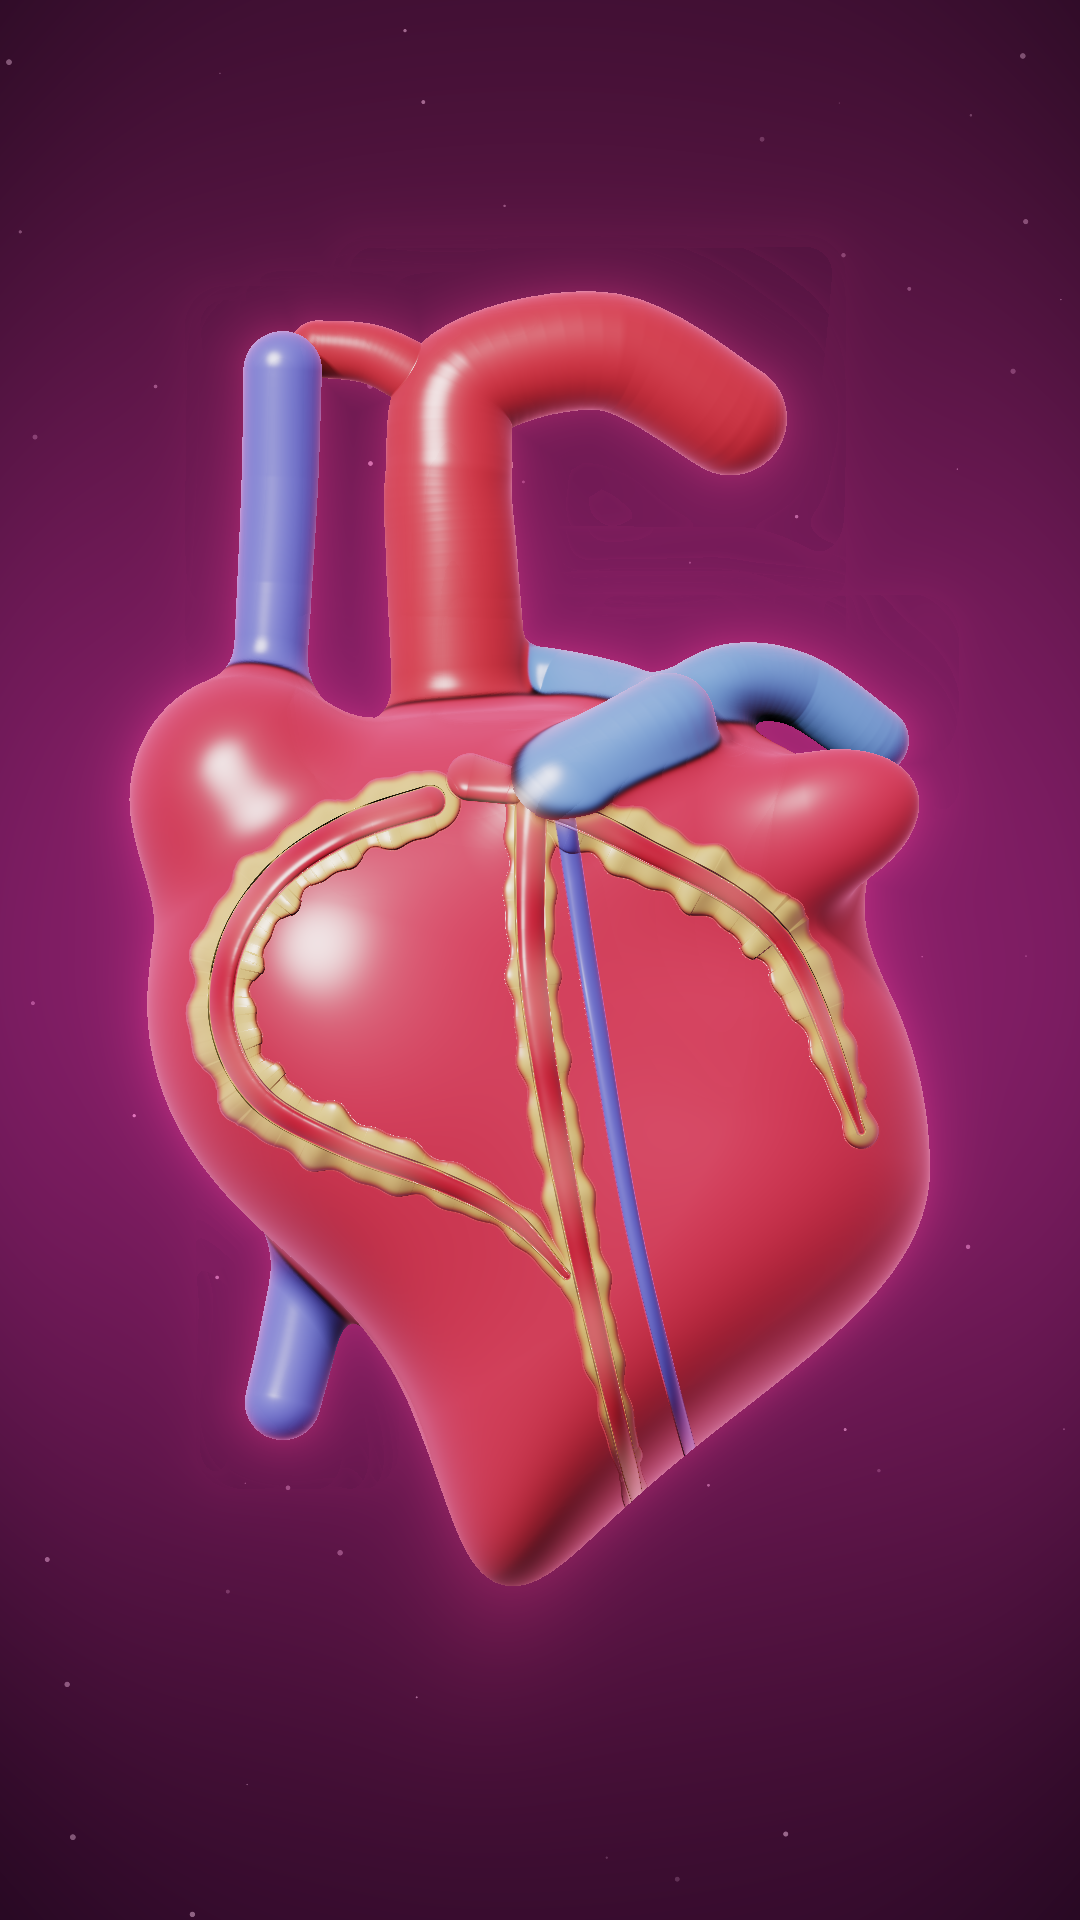
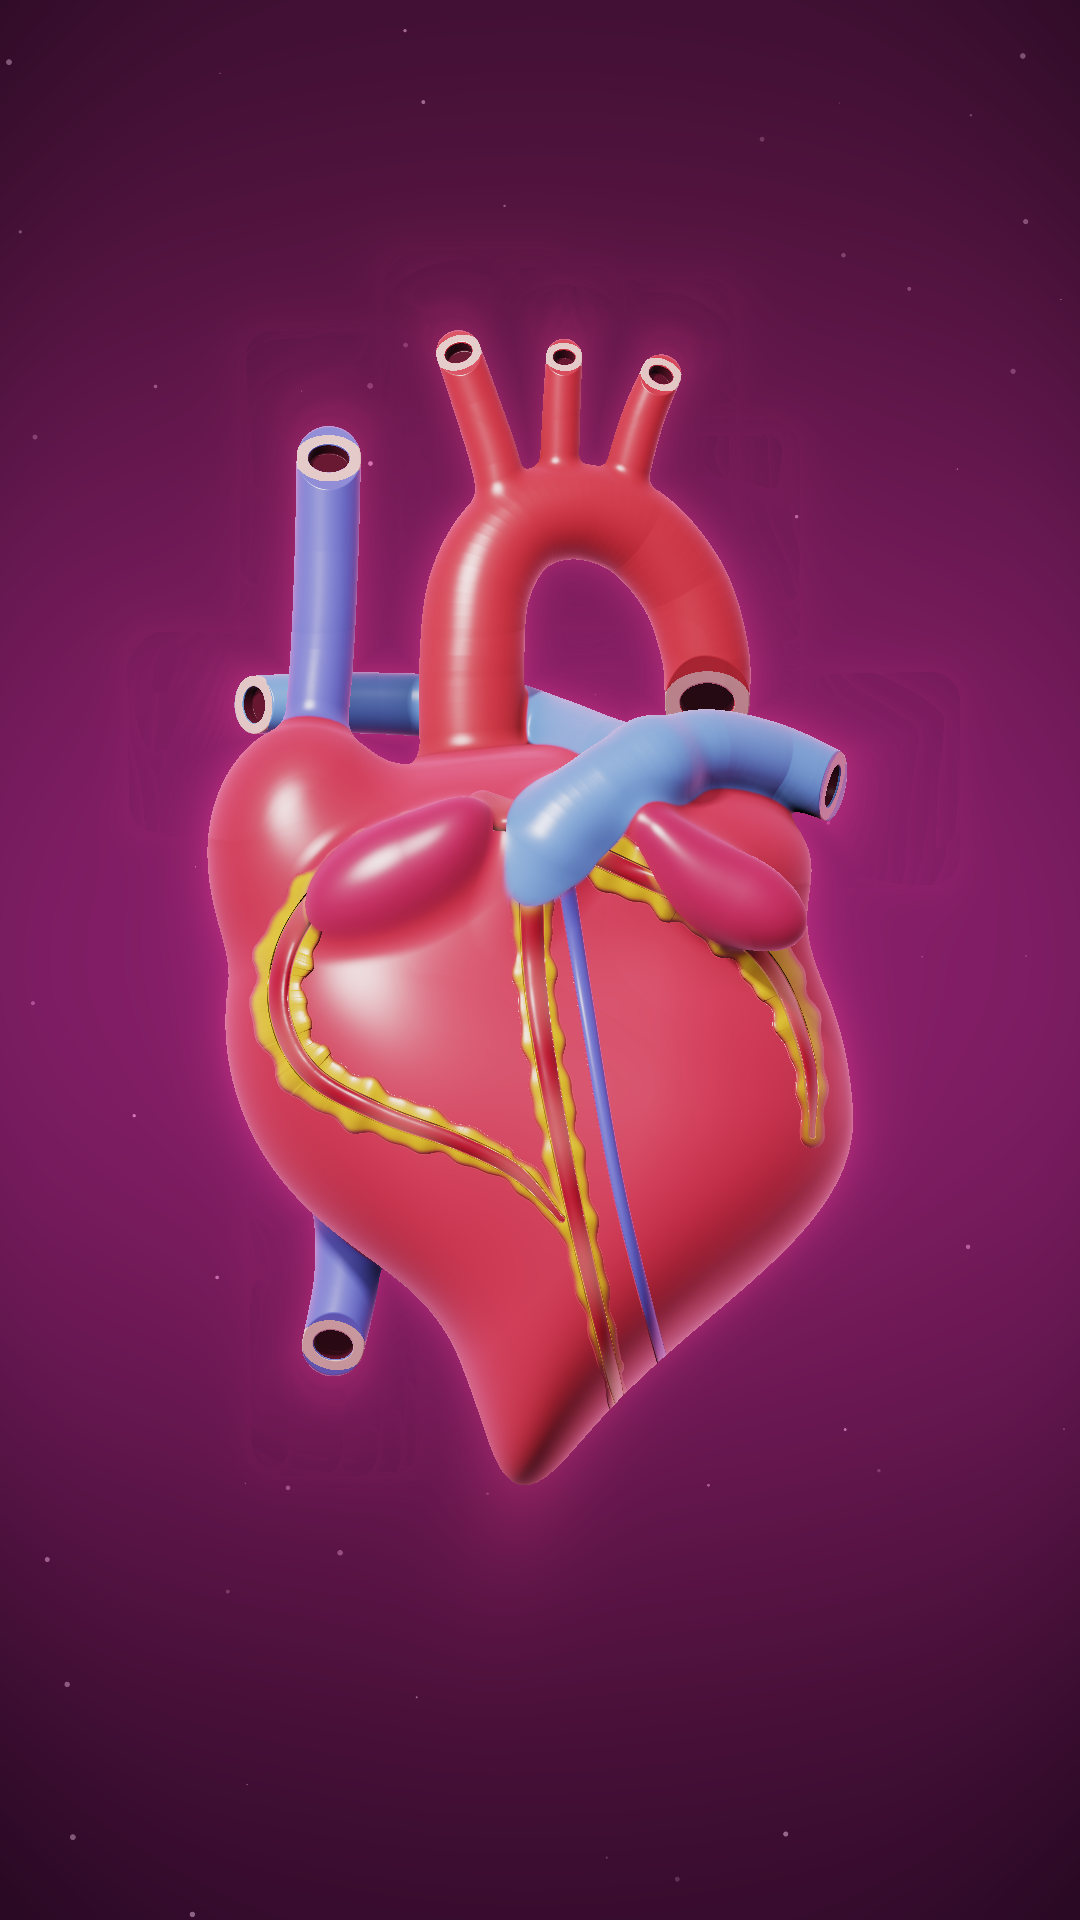
Jantung v5: badan SDF + pembuluh rantai kapsul (lengkung aorta tiga cabang, batang pulmonalis, aurikula, ujung berlumen); tiga pemeriksaan siluet/warna/akhir
Claude-Session: https://claude.ai/code/session_01MKx1UyJYZiX8AAtpyrtK5D

Changed region(s): [[0.0917, 0.125, 0.8861, 0.8438]]

diff --git a/brand/anatomi-visual/sdf/bandingkan.py b/brand/anatomi-visual/sdf/bandingkan.py
@@ -1,0 +1,78 @@
+# Lembar perbandingan tiga pemeriksaan (siluet, warna tanpa efek, akhir) untuk acuan, v4, dan SDF baru, dengan tinggi organ disamakan.
+# Pemakaian: python3 bandingkan.py acuan.jpg v4.png sdf_akhir.png sdf_warna.png sdf_siluet.png keluaran.png
+# Siluet acuan dan v4 diturunkan dari gambar (latar gelap dibuang, komponen kecil seperti partikel dan teks dibuang).
+import sys
+import numpy as np
+from PIL import Image, ImageDraw, ImageFont
+from scipy import ndimage as ndi
+ref_p, v4_p, fin_p, flat_p, sil_p, out_p = sys.argv[1:7]
+TANPA_ACUAN = ref_p == '-'   # tanpa gambar acuan: hanya v4 dan SDF (aman untuk di-commit)
+PW, PH, ORG = 600, 820, 680
+BG = np.array([240, 240, 235], np.uint8)
+
+def font(s):
+    try: return ImageFont.truetype('/usr/share/fonts/truetype/dejavu/DejaVuSans-Bold.ttf', s)
+    except Exception: return ImageFont.load_default()
+
+def organ_mask(im, thr):
+    a = np.array(im.convert('RGB')).astype(int)
+    m = a.max(axis=2) >= thr
+    m = ndi.binary_closing(m, iterations=4)
+    inv = ~m
+    lab, n = ndi.label(inv)
+    sizes = ndi.sum(inv, lab, range(n + 1))
+    border = set(lab[0].tolist()) | set(lab[-1].tolist()) | set(lab[:, 0].tolist()) | set(lab[:, -1].tolist())
+    fill = np.zeros(n + 1, bool)
+    for i in range(1, n + 1):
+        if i not in border and sizes[i] < 5000: fill[i] = True
+    m = m | fill[lab]
+    lab, n = ndi.label(m)
+    sizes = ndi.sum(m, lab, range(n + 1))
+    big = np.zeros(n + 1, bool)
+    if n: big[1 + int(np.argmax(sizes[1:]))] = True
+    return big[lab]
+
+def sil_mask_from_sdf(p):
+    return np.array(Image.open(p).convert('L')) < 128
+
+def bbox(m):
+    ys, xs = np.where(m); return xs.min(), ys.min(), xs.max() + 1, ys.max() + 1
+
+def place(im_arr, m, fill_bg):
+    """im_arr RGB uint8; m mask. Skala agar tinggi organ = ORG, taruh di tengah panel PWxPH."""
+    x0, y0, x1, y1 = bbox(m); s = ORG / (y1 - y0)
+    im = Image.fromarray(im_arr).resize((int(im_arr.shape[1] * s), int(im_arr.shape[0] * s)), Image.LANCZOS)
+    cx, cy = int((x0 + x1) / 2 * s), int((y0 + y1) / 2 * s)
+    panel = Image.new('RGB', (PW, PH), tuple(int(v) for v in fill_bg))
+    panel.paste(im, (PW // 2 - cx, PH // 2 - cy))
+    return panel
+
+def make_sil(m):
+    arr = np.full(m.shape + (3,), 255, np.uint8); arr[m] = (20, 18, 26); return arr
+
+def make_flat(arr, m):
+    out = np.tile(BG, m.shape + (1,)).astype(np.uint8); out[m] = arr[m]; return out
+
+if not TANPA_ACUAN:
+    ref = Image.open(ref_p).convert('RGB'); ref = ref.crop((0, 0, ref.width // 2, ref.height))
+v4 = Image.open(v4_p).convert('RGB'); fin = Image.open(fin_p).convert('RGB')
+flat = np.array(Image.open(flat_p).convert('RGB'))
+m4, ms = organ_mask(v4, 110), sil_mask_from_sdf(sil_p)
+mr = organ_mask(ref, 120) if not TANPA_ACUAN else None
+v4a, fa = np.array(v4), np.array(fin)
+cols = [('v4 (SVG pita)', v4a, m4), ('SDF + pembuluh (baru)', fa, ms)]
+if not TANPA_ACUAN: cols.insert(0, ('Acuan (gaya saja)', np.array(ref), mr))
+rows = ['1. Siluet polos', '2. Warna tanpa efek (tanpa cahaya, partikel, latar)', '3. Versi akhir']
+HEAD, LAB = 24, 44
+sheet = Image.new('RGB', (PW * len(cols), HEAD + (PH + LAB) * 3), (24, 24, 28)); d = ImageDraw.Draw(sheet)
+for r in range(3):
+    y = HEAD + r * (PH + LAB)
+    d.text((12, y + 8), rows[r], fill=(240, 240, 240), font=font(22))
+    for c, (name, arr, m) in enumerate(cols):
+        if r == 0: panel = place(make_sil(m), m, (255, 255, 255))
+        elif r == 1: panel = place(flat if c == len(cols) - 1 else make_flat(arr, m), m, BG)
+        else: panel = place(arr, m, (24, 24, 28))
+        sheet.paste(panel, (c * PW, y + LAB))
+        if r == 0: d.text((c * PW + PW - 8 - d.textlength(name, font=font(18)), y + 10), name, fill=(200, 200, 210), font=font(18))
+sheet.save(out_p)
+print('ok', sheet.size)

diff --git a/brand/anatomi-visual/sdf/post-views.py b/brand/anatomi-visual/sdf/post-views.py
@@ -1,0 +1,21 @@
+# Pasca-proses tiga pemeriksaan jantung SDF: garis tinta dari peta kedalaman untuk versi warna datar.
+# Pemakaian: python3 post-views.py kedalaman.png warna_datar.png siluet.png keluaran.png
+import sys
+import numpy as np
+from PIL import Image
+def dil(a, n=1):
+    for _ in range(n):
+        b = a.copy(); b[1:] |= a[:-1]; b[:-1] |= a[1:]; b[:, 1:] |= a[:, :-1]; b[:, :-1] |= a[:, 1:]; a = b
+    return a
+dep, flat, sil, out = sys.argv[1:5]
+d = np.array(Image.open(dep).convert('RGB')).astype(float)
+z = (d[..., 0] + d[..., 1] / 255.0) / 255.0 * 1500.0
+m = np.array(Image.open(sil).convert('L')) < 128
+gx = np.abs(np.diff(z, axis=1, append=z[:, -1:]))
+gy = np.abs(np.diff(z, axis=0, append=z[-1:, :]))
+edge = ((gx > 14) | (gy > 14)) & dil(m, 1)
+edge = dil(edge, 1)
+im = np.array(Image.open(flat).convert('RGB')).astype(float)
+ink = np.array([46, 14, 36], float)
+im[edge] = ink
+Image.fromarray(im.astype(np.uint8)).save(out)

diff --git a/brand/anatomi-visual/README.md b/brand/anatomi-visual/README.md
@@ -50,23 +50,37 @@ Acuan yang kamu lampirkan (jantung merah mengilap dengan lemak kuning dan pembul
 - Lengkung aorta dan percabangannya belum diperiksa terhadap atlas.
 - Gigi yang digambar adalah molar bawah; belum ada varian lain.
 
-## Eksperimen SDF jantung (konsep visual, bukan atlas)
-Kode di `sdf/` (`paths.mjs` jalur anatomi, `heart-sdf.mjs` pembangun shader GLSL, `render-sdf.mjs` perender). Hasil: `out/heart-sdf.png`, lembar denyut dan layer `out/sdf-animasi-layer.png`.
+## Jantung hibrida SDF + rantai kapsul (v5, konsep visual, bukan atlas)
+Kode di `sdf/`: `paths.mjs` (jalur koroner, lemak, dan titik kontrol pembuluh), `heart-sdf.mjs` (pembangun shader GLSL), `render-sdf.mjs` (perender), `post-views.py` (garis tinta dari peta kedalaman), `bandingkan.py` (lembar perbandingan).
 
-Teknik:
-- Badan jantung = gabungan halus (smooth-min) elipsoid: ventrikel kiri meruncing ke apeks, ventrikel kanan, basis, atrium kanan, auricula kiri. Sambungan antarbagian menyatu otomatis.
-- Pembuluh besar (aorta, brakiosefalika, batang pulmonalis dan cabangnya, SVC, IVC) = rantai kapsul 3D meruncing yang disatukan ke badan dengan smooth-min.
-- Arteri koroner (LM, LAD, sirkumfleks, RCA), vena kardiak besar, dan lemak di alur = decal 2D bidang tinggi yang mengubah normal permukaan, jadi cahaya dan kilau mengikuti permukaan. Tidak ada cabang acak.
-- Cahaya: kunci kiri atas, rim magenta, AO dan bayangan lembut dari SDF yang sama.
+Teknik per bagian (tidak satu teknik untuk semuanya):
+- **Badan** (ventrikel, basis, atrium kanan): gabungan halus (smooth-min) elipsoid; ventrikel kiri meruncing ke apeks.
+- **Aurikula**: dua elipsoid bergabung halus untuk tiap sisi, menonjol di depan akar pembuluh dan menyatu dengan badan; warnanya sedikit lebih gelap. Koroner disembunyikan di bawahnya.
+- **Pembuluh besar**: rantai kapsul 3D meruncing yang disatukan ke badan. Aorta asenden, lengkung, dan aorta desenden satu rantai; tiga cabang (brakiosefalika, karotis komunis kiri, subklavia kiri) keluar dari puncak lengkung. Batang pulmonalis keluar dari jalur keluar ventrikel kanan di depan aorta, bercabang ke LPA (kanan gambar, terpotong) dan RPA (ke belakang aorta, di atas atrium kanan, terpotong). SVC dan IVC dengan ujung terpotong.
+- **Ujung terpotong dengan lumen**: bidang potong miring ke arah penonton, lumen dilubangi, dinding terpotong diwarnai krem dan lumen gelap.
+- **Koroner (LM, LAD, sirkumfleks, RCA), vena kardiak besar, lemak di alur**: decal bidang tinggi yang mengubah normal permukaan. Hanya jalur utama, tanpa cabang dekoratif.
 
 Render ulang (butuh Chromium + Playwright; WebGL2 lewat SwiftShader):
 ```
-node brand/anatomi-visual/sdf/render-sdf.mjs [keluaran.png] [--scale=0.5] [--mode=0|1|2] [--beat=0..1] [--flow=0..1] [--zoom=1.34]
+node brand/anatomi-visual/sdf/render-sdf.mjs keluaran.png --zoom=1.1 [--scale=0.5] [--mode=0|1|2] [--view=0|1|2|3] [--beat=0..1] [--flow=0..1]
 ```
-`--mode` 0 penuh, 1 badan+decal (transparan), 2 pembuluh besar saja. `--beat` mengembang-mengempiskan badan; `--flow` menggerakkan denyut cahaya di sepanjang koroner. Satu frame 1080x1920 sekitar 8 detik di CPU.
+`--view` 0 akhir, 1 siluet polos, 2 warna datar tanpa cahaya/latar/partikel, 3 peta kedalaman. `python3 sdf/post-views.py kedalaman.png warna.png siluet.png keluaran.png` menambah garis tinta pada versi warna. `--mode` 0 penuh, 1 badan+decal (transparan), 2 pembuluh besar saja. Satu frame 1080x1920 sekitar 8 detik di CPU.
 
-Bagian yang bisa dianimasikan: denyut badan, aliran di koroner, dan layer terpisah (badan, pembuluh besar) untuk digerakkan sendiri-sendiri di video.
+Animasi: `--beat` mengembang-mengempiskan badan dan aurikula; `--flow` menggerakkan denyut cahaya di koroner; layer badan dan pembuluh besar bisa dirender terpisah untuk digerakkan sendiri-sendiri (lembar contoh `out/sdf-animasi-layer.png`). Pembuluh besar belum berdenyut.
 
-Masih jauh dari acuan: tampilan masih seperti plastik/tanah liat (belum ada serat otot, kilau basah dan percabangan halus); lemak masih pita lobulasi, belum gumpalan lemak sungguhan; batang pulmonalis terlihat seperti pipa yang menempel di badan; belum ada detail auricula kanan, katup, atau lumen di ujung potong pembuluh; siluet bawah kiri masih agak bergelombang.
+Hasil: `out/heart-sdf.png` (akhir), `out/heart-sdf-warna.png`, `out/heart-sdf-siluet.png`, `out/perbandingan-bentuk-v4-sdf.png` (tiga pemeriksaan v4 vs SDF). Lembar yang memuat gambar acuan (`out/perbandingan-bentuk-acuan-v4-sdf.png`) hanya lokal dan tidak di-commit.
 
-Status anatomi: konsep visual. Strukturnya hanya dicek terhadap ringkasan hasil pencarian (sumber di atas), bukan atlas penuh. Acuan gambar hanya dipakai untuk gaya.
+### Dibanding v4 dan acuan
+- Lebih baik dari v4: lengkung aorta dengan tiga cabang dan aorta desenden (v4 hanya satu pipa melengkung), batang pulmonalis di depan aorta dengan LPA dan RPA, SVC/IVC dan ujung potong berlumen, aurikula menyatu dengan badan, jalur koroner mengikuti alur dan menghilang di bawah aurikula.
+- Masih lebih lemah dari acuan: batang pulmonalis terlalu tipis dan akarnya masih tampak seperti pipa menempel; aurikula kiri seperti telur; siluet badan lebih sempit daripada acuan dan ujung apeks agak runcing; tidak ada cabang koroner kecil (sengaja), serat otot, katup, dan vena pulmonalis; pembuluh relatif terlalu besar terhadap badan.
+- Bagian v4 yang tetap lebih jelas: bentuk apeks dan sudut kiri-kanan v4 (siluet "hati" yang rapi) dan lobus bulat atrium yang terbaca langsung. Pada v5 siluet badan lebih organik tetapi lebih berombak, jadi kalau dipakai di video kecil, bentuk v4 masih lebih bersih. Struktur pembuluh besar sebaiknya diambil dari v5.
+
+### Sumber yang benar-benar dibuka (v5)
+Hanya abstrak lewat PubMed (halaman penuh Radiology Assistant, StatPearls/NCBI, OpenStax, dan Wikipedia tidak bisa diakses: host tidak ada dalam jaringan yang diizinkan sesi ini):
+- Lengkung aorta normal bercabang tiga: brakiosefalika, karotis komunis kiri, subklavia kiri; pola klasik 63,5%-89,4% (Babu & Sharma 2015, https://doi.org/10.7860/JCDR/2015/14219.6253; Tawfik dkk. 2018, https://doi.org/10.1016/j.acra.2018.08.023).
+- Aurikula kiri: umumnya seperti jari melengkung (73,2%), dua atau tiga lobus; arteri sirkumfleks adalah struktur terdekat dengan ostium aurikula kiri (Üçerler dkk. 2013, https://doi.org/10.5152/akd.2013.181; Kapoor dkk. 2024, https://doi.org/10.1007/s12565-024-00805-2; Anselmino dkk. 2017, https://doi.org/10.2459/JCM.0000000000000484). Dipakai agar sirkumfleks lewat di bawah aurikula kiri.
+- RCA berdekatan dengan sinus pulmonal kanan/jalur keluar ventrikel kanan (82%); LM dan LAD berdekatan dengan sinus pulmonal kiri; LM tidak berhubungan dengan sinus anterior (Dong dkk. 2018, https://doi.org/10.1111/jce.13685). Dipakai agar koroner muncul dari bawah batang pulmonalis.
+- Panjang batang pulmonalis dan jarak percabangannya (Latrémouille dkk. 2000, https://doi.org/10.1007/s00276-000-0129-9).
+
+### Yang belum terverifikasi
+Letak alur AV dan interventrikular, jalur RCA hingga tepi inferior, vena kardiak besar, sebaran lemak epikardium, dan proporsi/ukuran relatif semua struktur hanya berasal dari ringkasan pencarian sebelumnya dan gambar yang digambar tangan, bukan dari halaman yang dibuka. Pelengkap seperti vena pulmonalis tidak digambar. Anggap seluruhnya konsep visual sampai dicocokkan dengan atlas.
